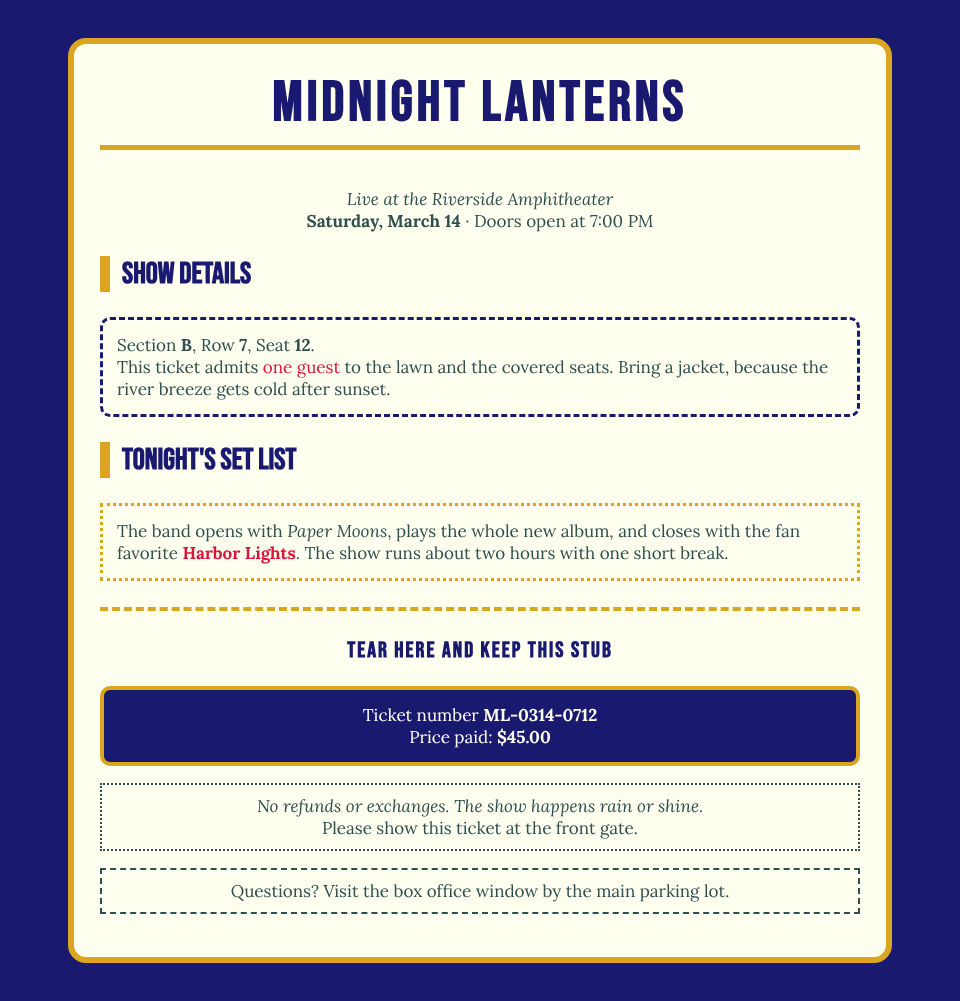
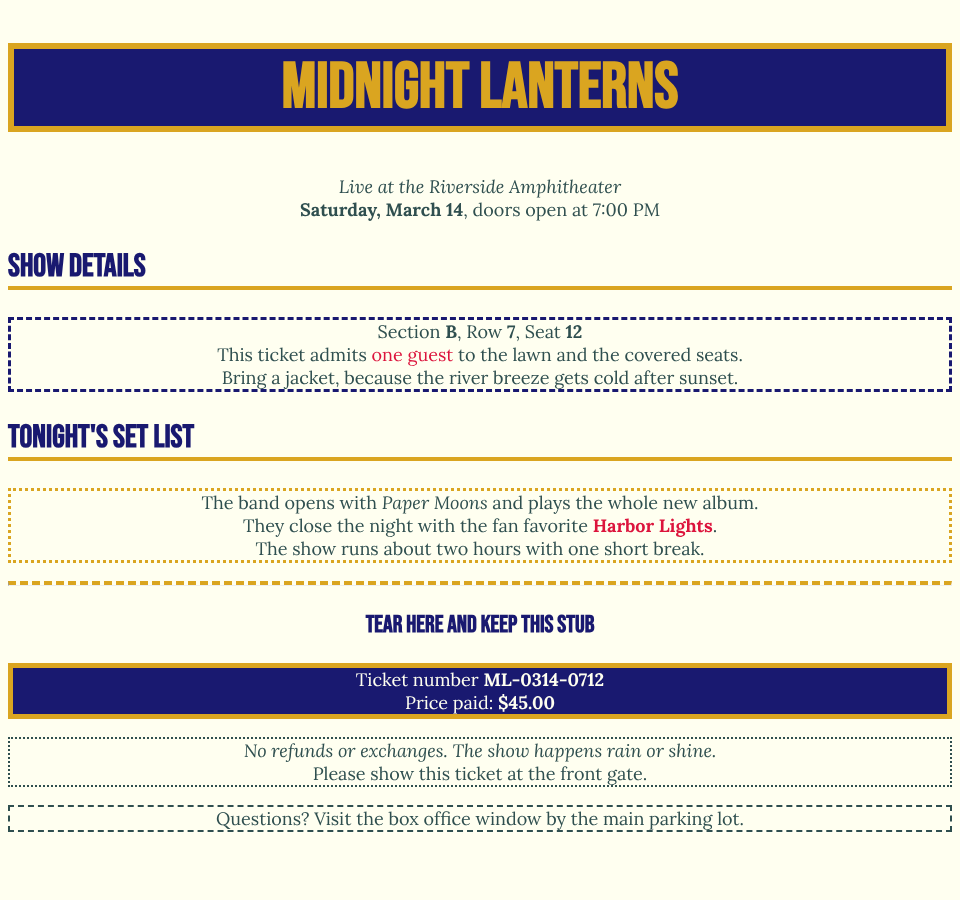
IST 3.6 example: rebuilt with only what 3.1-3.5 cover (no div, padding, margin, radius)
Claude-Session: https://claude.ai/code/session_01XTLNK9D6PftTNLxkgYvSWL

diff --git a/ist/unit-6/examples/6.4-ticket.html b/ist/unit-6/examples/6.4-ticket.html
@@ -4,33 +4,29 @@
 <title>Midnight Lanterns Concert Ticket</title>
 <link href="https://fonts.googleapis.com/css2?family=Bebas+Neue&family=Lora:ital,wght@0,400;0,700;1,400&display=swap" rel="stylesheet">
 </head>
-<body style="background-color: midnightblue; font-family: Lora, serif; padding: 30px;">
+<body style="background-color: ivory; font-family: Lora, serif;">
 
-<div style="background-color: ivory; border: 6px solid goldenrod; border-radius: 18px; max-width: 760px; margin: 0 auto; padding: 26px;">
+<h1 style="font-family: 'Bebas Neue', sans-serif; font-size: 64px; color: goldenrod; background-color: midnightblue; text-align: center; text-transform: uppercase; border: 6px solid goldenrod;">Midnight Lanterns</h1>
 
-<h1 style="font-family: 'Bebas Neue', sans-serif; font-size: 56px; color: midnightblue; text-align: center; text-transform: uppercase; letter-spacing: 4px; border-bottom: 5px solid goldenrod; padding-bottom: 8px; margin-top: 0;">Midnight Lanterns</h1>
+<p style="font-size: 18px; color: darkslategray; text-align: center;"><em>Live at the Riverside Amphitheater</em><br><strong>Saturday, March 14</strong>, doors open at 7:00 PM</p>
 
-<p style="font-size: 17px; text-align: center; color: darkslategray;"><em>Live at the Riverside Amphitheater</em><br><strong>Saturday, March 14</strong> &middot; Doors open at 7:00 PM</p>
+<h2 style="font-family: 'Bebas Neue', sans-serif; font-size: 32px; color: midnightblue; border-bottom: 4px solid goldenrod;">Show Details</h2>
 
-<h2 style="font-family: 'Bebas Neue', sans-serif; font-size: 30px; color: midnightblue; border-left: 10px solid goldenrod; padding-left: 12px;">Show Details</h2>
+<p style="font-size: 18px; color: darkslategray; text-align: center; border: 3px dashed midnightblue;">Section <strong>B</strong>, Row <strong>7</strong>, Seat <strong>12</strong><br>This ticket admits <span style="color: crimson;">one guest</span> to the lawn and the covered seats.<br>Bring a jacket, because the river breeze gets cold after sunset.</p>
 
-<p style="font-size: 17px; color: darkslategray; border: 3px dashed midnightblue; border-radius: 10px; padding: 14px;">Section <strong>B</strong>, Row <strong>7</strong>, Seat <strong>12</strong>.<br>This ticket admits <span style="color: crimson;">one guest</span> to the lawn and the covered seats. Bring a jacket, because the river breeze gets cold after sunset.</p>
+<h2 style="font-family: 'Bebas Neue', sans-serif; font-size: 32px; color: midnightblue; border-bottom: 4px solid goldenrod;">Tonight's Set List</h2>
 
-<h2 style="font-family: 'Bebas Neue', sans-serif; font-size: 30px; color: midnightblue; border-left: 10px solid goldenrod; padding-left: 12px;">Tonight's Set List</h2>
+<p style="font-size: 18px; color: darkslategray; text-align: center; border: 3px dotted goldenrod;">The band opens with <em>Paper Moons</em> and plays the whole new album.<br>They close the night with the fan favorite <span style="color: crimson;"><strong>Harbor Lights</strong></span>.<br>The show runs about two hours with one short break.</p>
 
-<p style="font-size: 17px; color: darkslategray; border: 3px dotted goldenrod; padding: 14px;">The band opens with <em>Paper Moons</em>, plays the whole new album, and closes with the fan favorite <span style="color: crimson;"><strong>Harbor Lights</strong></span>. The show runs about two hours with one short break.</p>
+<hr style="border-top: 4px dashed goldenrod;">
 
-<hr style="border: 0; border-top: 4px dashed goldenrod; margin: 26px 0;">
+<h3 style="font-family: 'Bebas Neue', sans-serif; font-size: 24px; color: midnightblue; text-align: center; text-transform: uppercase;">Tear here and keep this stub</h3>
 
-<h3 style="font-family: 'Bebas Neue', sans-serif; font-size: 22px; color: midnightblue; text-align: center; text-transform: uppercase; letter-spacing: 2px;">Tear here and keep this stub</h3>
+<p style="font-size: 18px; color: ivory; background-color: midnightblue; text-align: center; border: 5px solid goldenrod;">Ticket number <strong>ML-0314-0712</strong><br>Price paid: <strong>$45.00</strong></p>
 
-<p style="font-size: 17px; color: ivory; background-color: midnightblue; text-align: center; border: 4px solid goldenrod; border-radius: 10px; padding: 14px;">Ticket number <strong>ML-0314-0712</strong><br>Price paid: <strong>$45.00</strong></p>
+<p style="font-size: 18px; color: darkslategray; text-align: center; border: 2px dotted darkslategray;"><em>No refunds or exchanges. The show happens rain or shine.</em><br>Please show this ticket at the front gate.</p>
 
-<p style="font-size: 17px; color: darkslategray; text-align: center; border: 2px dotted darkslategray; padding: 10px;"><em>No refunds or exchanges. The show happens rain or shine.</em><br>Please show this ticket at the front gate.</p>
-
-<p style="font-size: 17px; color: darkslategray; text-align: center; border: 2px dashed darkslategray; padding: 10px;">Questions? Visit the box office window by the main parking lot.</p>
-
-</div>
+<p style="font-size: 18px; color: darkslategray; text-align: center; border: 2px dashed darkslategray;">Questions? Visit the box office window by the main parking lot.</p>
 
 </body>
 </html>
